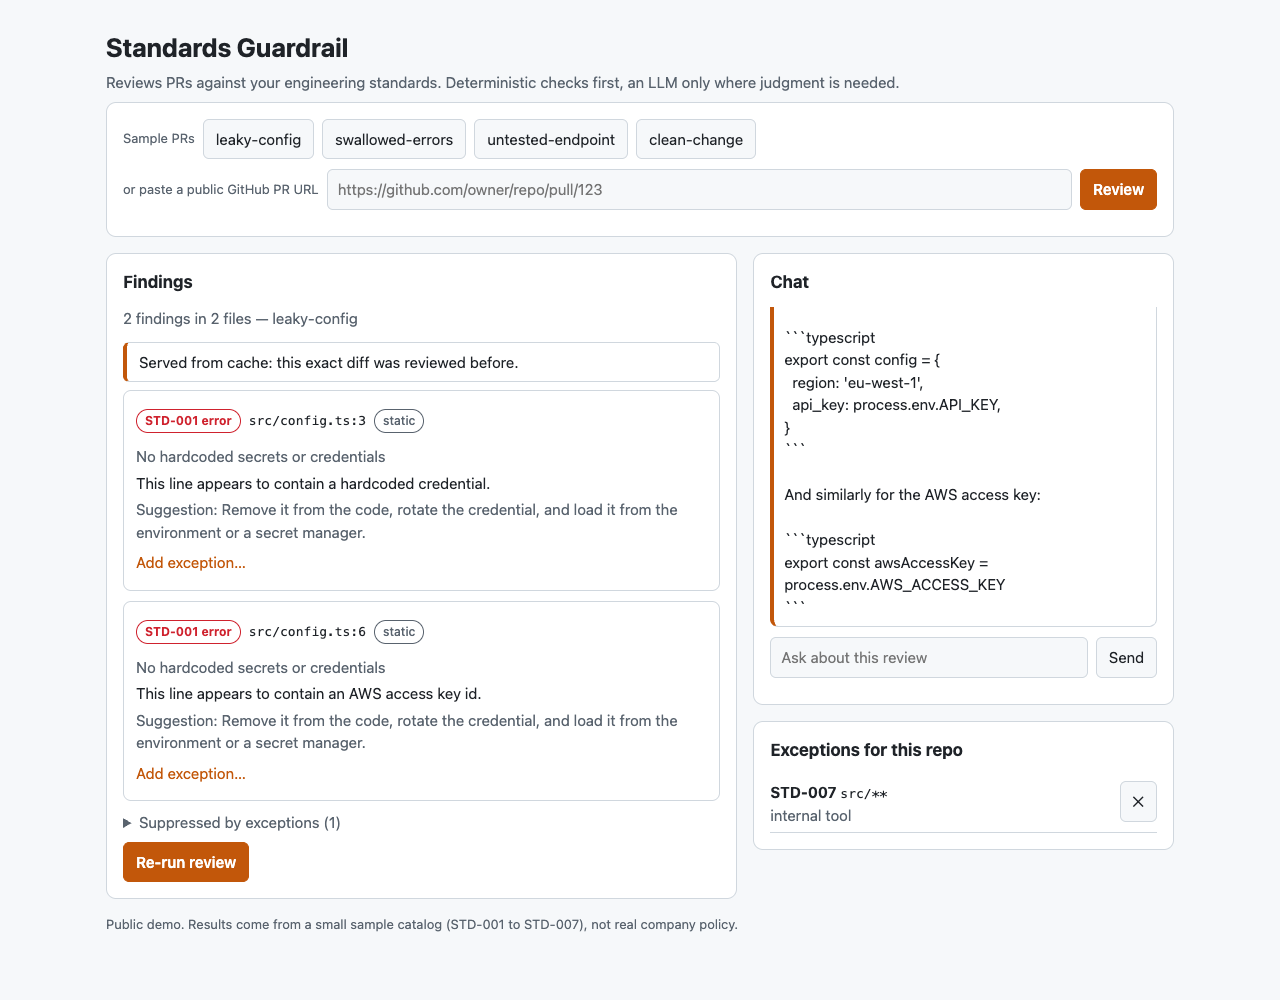
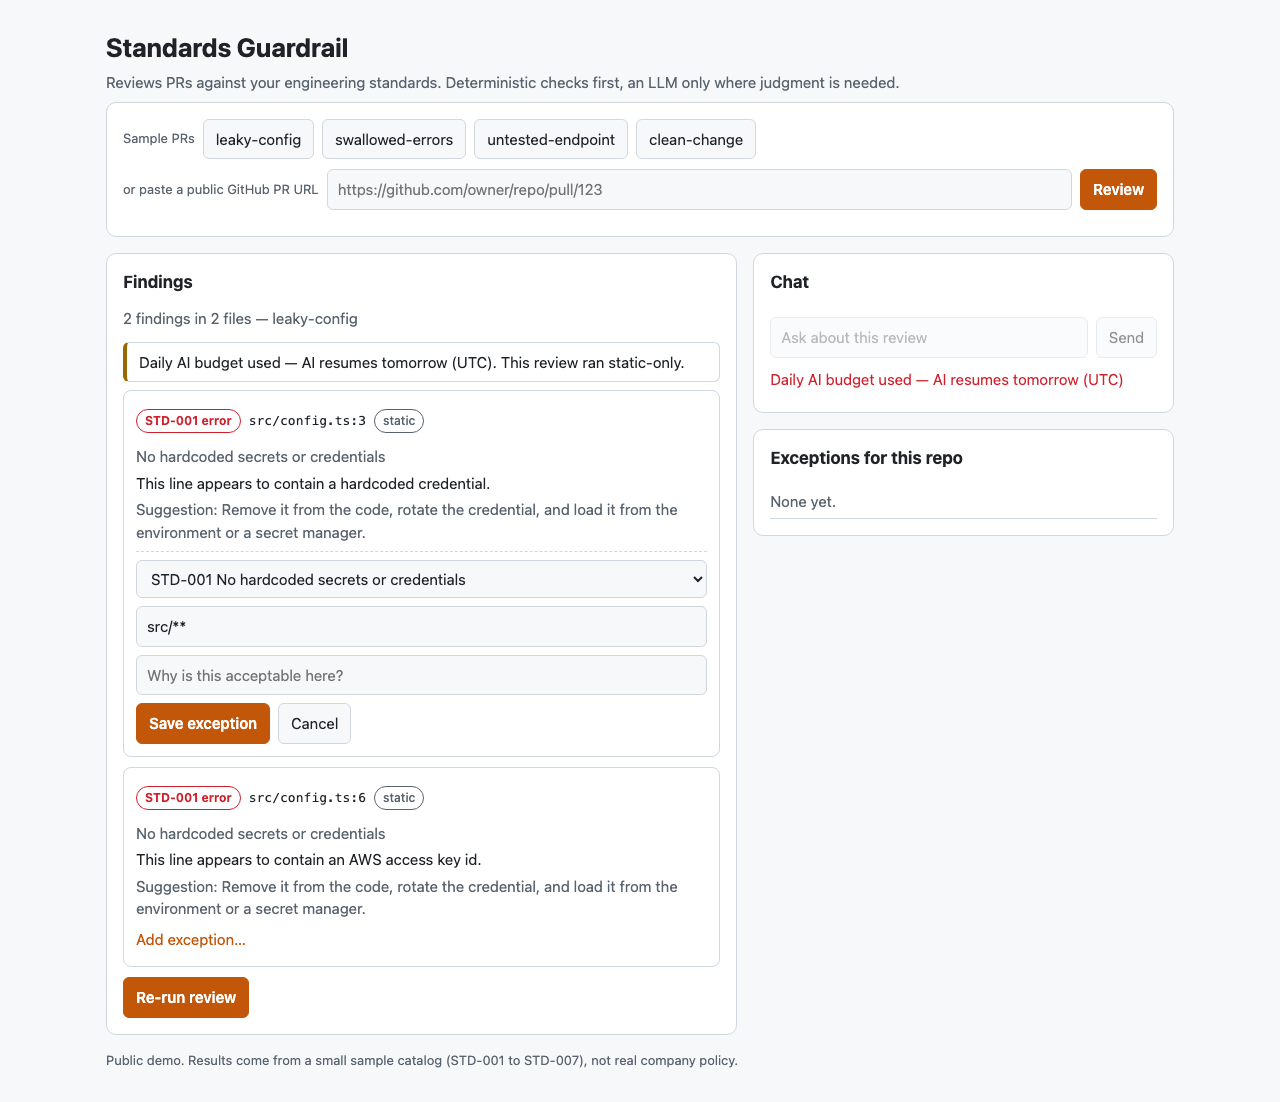
docs: add readme, prompt export script and refreshed screenshot
The export script keeps only human-typed prompts from Claude Code session
logs (filters tested on a synthetic fixture) and appends the app's
runtime prompts generated from source.

diff --git a/test/export-prompts.test.ts b/test/export-prompts.test.ts
@@ -1,0 +1,41 @@
+import { describe, expect, it } from 'vitest'
+import { readFileSync } from 'node:fs'
+import { join } from 'node:path'
+// @ts-expect-error plain ESM script without types
+import { cleanMessage, extractPrompts, renderPrompts } from '../scripts/export-prompts.mjs'
+
+const fixture = readFileSync(join(import.meta.dirname, 'fixtures/session.jsonl'), 'utf8')
+
+describe('export-prompts', () => {
+  const prompts = extractPrompts(fixture) as { timestamp: string; text: string; pasted: boolean }[]
+
+  it('keeps only human-typed prompts, in time order', () => {
+    expect(prompts.map((p) => p.text.split('\n')[0])).toEqual(['first prompt', 'got this', 'second prompt'])
+  })
+  it('strips system reminders', () => {
+    expect(prompts[0]!.text).toBe('first prompt')
+    expect(JSON.stringify(prompts)).not.toContain('secret context')
+  })
+  it('drops sidechain, meta, tool results, command, bash, task and agent noise and interrupts', () => {
+    const all = JSON.stringify(prompts)
+    for (const s of ['subagent brief', 'meta caveat', 'output', 'clear', 'bash-input', 'done', 'agent-message', 'interrupted', 'only a reminder', 'an answer']) {
+      expect(all).not.toContain(s)
+    }
+  })
+  it('labels pasted content', () => {
+    expect(prompts[1]!.pasted).toBe(true)
+    expect(prompts[1]!.text).toContain('(pasted)')
+    expect(prompts[1]!.text).toContain('> line one')
+    expect(prompts[1]!.text).not.toContain('<pasted_content')
+  })
+  it('rejects non-string, non-array content', () => {
+    expect(cleanMessage(undefined)).toBeNull()
+    expect(cleanMessage([{ type: 'image' }])).toBeNull()
+  })
+  it('renders sessions with UTC time headings', () => {
+    const md = renderPrompts([prompts]) as string
+    expect(md).toContain('## Session 1 (2026-11-24)')
+    expect(md).toContain('### 06:04')
+    expect(md).toContain('### 06:13')
+  })
+})

diff --git a/scripts/runtime-prompts.ts b/scripts/runtime-prompts.ts
@@ -1,0 +1,27 @@
+/** Prints the prompts the app itself sends to the model, as Markdown. Used by export-prompts.mjs --runtime. */
+import { buildSystemPrompt, LLM_MODEL } from '../src/checks/llm'
+import { CHAT_SYSTEM_PROMPT } from '../src/chat'
+import { RULES } from '../src/rules'
+
+const fence = (s: string) => '```text\n' + s + '\n```'
+
+console.log(
+  [
+    '## Runtime prompts',
+    '',
+    `These are the system prompts the deployed app sends to \`${LLM_MODEL}\`. They are written by the author and generated here from the source, so they cannot drift from the code.`,
+    '',
+    '### Standards check (one call per reviewed file)',
+    '',
+    fence(buildSystemPrompt(RULES)),
+    '',
+    'The user message is the file\'s added lines inside a `<code path="...">` tag, one `<line>: <text>` per row.',
+    '',
+    '### Chat',
+    '',
+    fence(CHAT_SYSTEM_PROMPT),
+    '',
+    'The chat context (findings, up to 6 KB of the flagged files\' added lines, the last 10 turns) is appended to this prompt as data.',
+    '',
+  ].join('\n'),
+)

diff --git a/README.md b/README.md
@@ -1,0 +1,132 @@
+# Standards Guardrail
+
+Reviews a GitHub pull request against a written engineering standards catalog, explains each violation, suggests a fix, lets you chat about the findings, and remembers deliberate exceptions. Live at https://cf-ai-standards-guardrail.nareshnavinash.workers.dev (public PRs only, free Cloudflare plan).
+
+![Standards Guardrail reviewing the leaky-config sample, with the exception form open](docs/screenshot.png)
+
+The screenshot was taken from a local run with the AI budget at zero, so it shows the static-only mode (see below).
+
+I built it as a small working version of "turn engineering standards into automated guardrails and feedback engineers can act on, instead of checklists and manual review". The design note is in [docs/superpowers/specs](docs/superpowers/specs/2026-11-24-standards-guardrail-design.md), the plan in [docs/superpowers/plans](docs/superpowers/plans/2026-11-24-standards-guardrail.md), and the prompts I used to build it are in `PROMPTS.md`.
+
+## Try it in 60 seconds
+
+1. Open the live URL and click **leaky-config**. You get STD-001 findings in a couple of seconds.
+2. Click **Add exception...** on a finding. The rule and the directory glob (`src/**`) are pre-filled; add a reason and save.
+3. Click **Re-run review**. The finding moves under "Suppressed by exceptions".
+4. Paste any public PR link (for example `https://github.com/honojs/hono/pull/5669`) instead of a sample.
+5. When the daily AI budget is available, the chat panel answers questions about the review ("why is this a problem?", "show me a fix").
+
+## Architecture
+
+```
+ Browser (static assets: index.html, app.js, styles.css; CSP, text-only rendering)
+    |  JSON over fetch, polls every 1.5 s
+    v
+ Worker (src/router.ts)  -- validates input, fetches the diff from GitHub, rate limits, claims a budget slot
+    |                \
+    |                 \--> CONTROL Durable Object (SQLite, one global instance)
+    |                      review index, in-flight dedupe, daily + per-IP counters, neuron reservations
+    v
+ REVIEW_WORKFLOW (Cloudflare Workflow, src/workflow.ts)        <-- COORDINATION
+    parse -> cache-lookup -> static-checks (STD-001..004)
+          -> llm-check:<file> x N, 4 in parallel, 2 retries    <-- LLM: Llama 3.3 70B on Workers AI (STD-005..007)
+          -> cache-store (KV, full reviews only)
+          -> apply-exceptions  (reads memory)                  <-- MEMORY
+          -> persist (saves the result)
+                                                               
+ REPO_MEMORY Durable Object (SQLite, one per repo+visitor)     <-- MEMORY
+    exceptions, saved reviews, chat history
+
+ POST /api/reviews/:id/chat  -> Worker -> Llama 3.3 with findings + flagged code + last turns   <-- CHAT
+```
+
+The four pieces the assignment asks for, and the job each does:
+
+| Piece | What it does here |
+|---|---|
+| LLM | Llama 3.3 70B judges the three rules that need judgment (STD-005 to STD-007) and answers chat questions. |
+| Workflow | One Workflow per review: durable, retried steps, with a file whose LLM step fails marked as degraded rather than failing the review. |
+| Chat | A chat panel explains findings and proposes fixes. It cannot change code or add exceptions. |
+| Memory | A SQLite Durable Object per repo and visitor stores exceptions, saved reviews and chat history. A global Control Durable Object holds budget state. |
+
+**Request flow.** The Worker validates the input and loads the diff (sample or GitHub API) before it starts anything, so a bad URL, an issue link, a private repo or an oversized diff fails fast with a specific message and never starts a Workflow. It then claims a review slot atomically in the Control Durable Object and starts the Workflow, which runs the steps above. The UI polls for the result, which is read back from the repo Durable Object, so a review link keeps working after the Workflow instance expires.
+
+## Why static first
+
+An LLM should not do what a regex does reliably. Secrets, empty `catch` blocks, TODOs without a ticket, and "source changed but no tests" are checked deterministically (STD-001 to STD-004). They are free, instant, identical on every run, and immune to prompt injection. The LLM only gets the three rules that need judgment: outbound calls without a timeout, user-facing errors that leak internals, and logs with PII. Its output is constrained to a JSON schema, rule ids and line numbers outside the catalog and the added lines are dropped, the diff is wrapped as data, and static findings never depend on the model. A test file is never sent to the LLM.
+
+## Degraded and static-only modes
+
+- **Degraded.** If a file's LLM step still fails after retries (bad JSON, truncation, quota), that file is listed as "LLM check unavailable", its static findings are kept, and the result is not cached. A review only fails when the input itself is unusable.
+- **Static-only.** When the daily AI budget (or a per-IP allowance) is used up, new reviews run with the deterministic checks only, the UI says so with a banner, and chat answers "AI resumes tomorrow (UTC)". Cached diffs cost nothing and still return full results. The Playwright suite runs the whole app in this mode.
+
+## Exceptions are deliberate, scoped records
+
+An exception is a rule id, a path glob and a reason, added with an explicit button on a finding. It is not inferred from chat, because a guardrail's exceptions must be auditable. Exceptions are applied after the cache, so a new one takes effect on the next run. They are **visitor-scoped**: memory is keyed by `<repo>#<visitorId>`, so on a public demo nobody can hide findings from other people. Catch-all globs (`*`, `**`, `**/*`) are rejected, globs are capped at 100 characters and matched in linear time (no regex built from user input), and there is a cap of 25 per repo. Without a valid visitor id a visitor is read-only. If browser storage is blocked, the id lives in the tab and the UI says "Exceptions last only for this tab".
+
+A plain Durable Object, not the Agents SDK: it gives the same per-repo stateful identity with less API surface and version risk on a same-day deadline. Polling every 1.5 s is enough for a 5 to 60 second review, so there is no WebSocket either.
+
+## Free-plan budget design and known limits
+
+The app runs on the Cloudflare free plan: roughly 10,000 Workers AI neurons per day (about 12 full reviews with the 70B model), about 10 ms CPU per invocation, 1,000 KV writes per day, and about 3 days of Workflow retention. The design works inside that:
+
+- **Neuron budget.** Every AI call first reserves its worst case (prompt size at the input rate plus `max_tokens` at the output rate) in the Control Durable Object, then settles to the real usage. A refused reservation means no AI call. `DAILY_NEURON_BUDGET` is 9,000, leaving 1,000 of headroom under the free allowance. `max_tokens` is 1,024 for checks and 600 for chat.
+- **Count caps.** 10 LLM reviews and 40 chat turns per UTC day, 10 chat questions per review. Per IP (salted hash): 30 review requests, 4 LLM reviews and 15 chats per day. Rate limits per minute: 5 reviews and 10 chat or exception writes.
+- **Cheap by construction.** Results of full, non-degraded reviews are cached in KV for 30 days (so samples are free after the first run); KV is not used for counters because of the 1,000-writes limit. Diffs are limited to 100 KB, 10 files, 300 added lines per file and 12 KB of code per file sent to the model.
+- **Other protections.** Private repos are refused, strict CSP and text-only rendering, errors are JSON with a code and never leak internals, and a dead Workflow releases its slot.
+
+Known limits, accepted:
+
+- A Workers AI transport error is settled to 0 neurons. If the model actually ran before the connection dropped, the count is slightly low; the 1,000-neuron gap absorbs it.
+- A step retried after it already settled a positive amount is not re-checked against the budget before its AI call (its spend is added afterwards). It is bounded by one file's worth of tokens per retry.
+- `wrangler dev` always talks to the remote AI binding, which can incur usage even locally.
+- The catalog is a seven-rule demo, not real policy.
+
+## Evals
+
+27 hand-labelled cases: 22 synthetic and 5 from real public PRs (hono, express, fastify). Details, per-case results and the limits of this eval are in [evals/RESULTS.md](evals/RESULTS.md).
+
+| Rules | Mode | Cases | Result |
+|---|---|---|---|
+| STD-001, STD-002, STD-003 | static | 27 | precision 1.00, recall 1.00 each |
+| STD-004 | static | 27 | precision 0.75, recall 1.00 (one false positive on a comment-only PR, recorded on purpose) |
+| STD-005, STD-006, STD-007 | LLM, run once | 8 | 3 of 3 positives found, 5 of 5 negatives silent, none degraded |
+
+These are smoke-test numbers: small n, one author who also wrote the labels, and mostly synthetic cases. The LLM rules saw one positive each. The results file lists what this eval does not show.
+
+## Run it
+
+```bash
+npm install
+npm test               # unit tests (vitest)
+npm run typecheck
+npm run test:e2e       # Playwright: starts wrangler dev with the AI budget at 0, static-only, no neuron spend
+npm run eval           # all eval cases, static-only, against EVAL_BASE_URL (default http://localhost:8787)
+npm run eval -- --llm  # only the LLM cases, spends neurons: run it sparingly
+npm run dev            # local Worker; needs `npx wrangler login` and a .dev.vars file with GITHUB_TOKEN
+```
+
+The first `test:e2e` needs the browser once: `npx playwright install chromium`. The e2e suite uses `wrangler.e2e.jsonc` (same bindings, no rate-limit bindings, budget 0) and a throwaway state directory.
+
+`npm run eval` reads `EVAL_KEY` from the environment or from a gitignored `.eval-key` file. `PROMPTS.md` is generated from Claude Code session logs with `node scripts/export-prompts.mjs --modified-on <date> --match <text> --runtime --out PROMPTS.md <log dir>` (flags are documented at the top of the script).
+
+## Deploy
+
+```bash
+npx wrangler login
+npx wrangler kv namespace create CACHE      # put the id in wrangler.jsonc
+npx wrangler secret put GITHUB_TOKEN        # fine-grained PAT, public repositories read-only, no permissions
+npx wrangler secret put EVAL_KEY            # random value; enables the eval route
+npx wrangler deploy
+curl https://<your-worker>.workers.dev/api/health   # {"ok":true,"githubToken":true}
+```
+
+The GitHub token is required: unauthenticated calls share Cloudflare's egress IPs and hit GitHub's 60 per hour limit almost immediately. Moving to the Paid plan would raise the CPU limit, lift the Workers AI daily allowance (billed per neuron), allow more KV writes, and keep Workflow instances longer; the budget variables in `wrangler.jsonc` are the only knobs to change.
+
+## What I would do next
+
+- **GitHub App.** Comment the findings on pull requests (webhook with signature check, one upserted summary comment) so the feedback lands where engineers already work.
+- **MCP tool.** Expose `list_rules` and `review_diff` so an AI coding assistant can check its own change before opening the PR.
+- **Policy as code.** Export the catalog as a config and make rules pluggable per repo, with static rules compiled from the same file.
+- **Compliance dashboard.** Counts of which rules fire most and which get exceptions most, to see where a standard is unclear or too strict.
+- **Better evals.** A second labeller, more real PRs, line-level scoring, and a regression run in CI.
